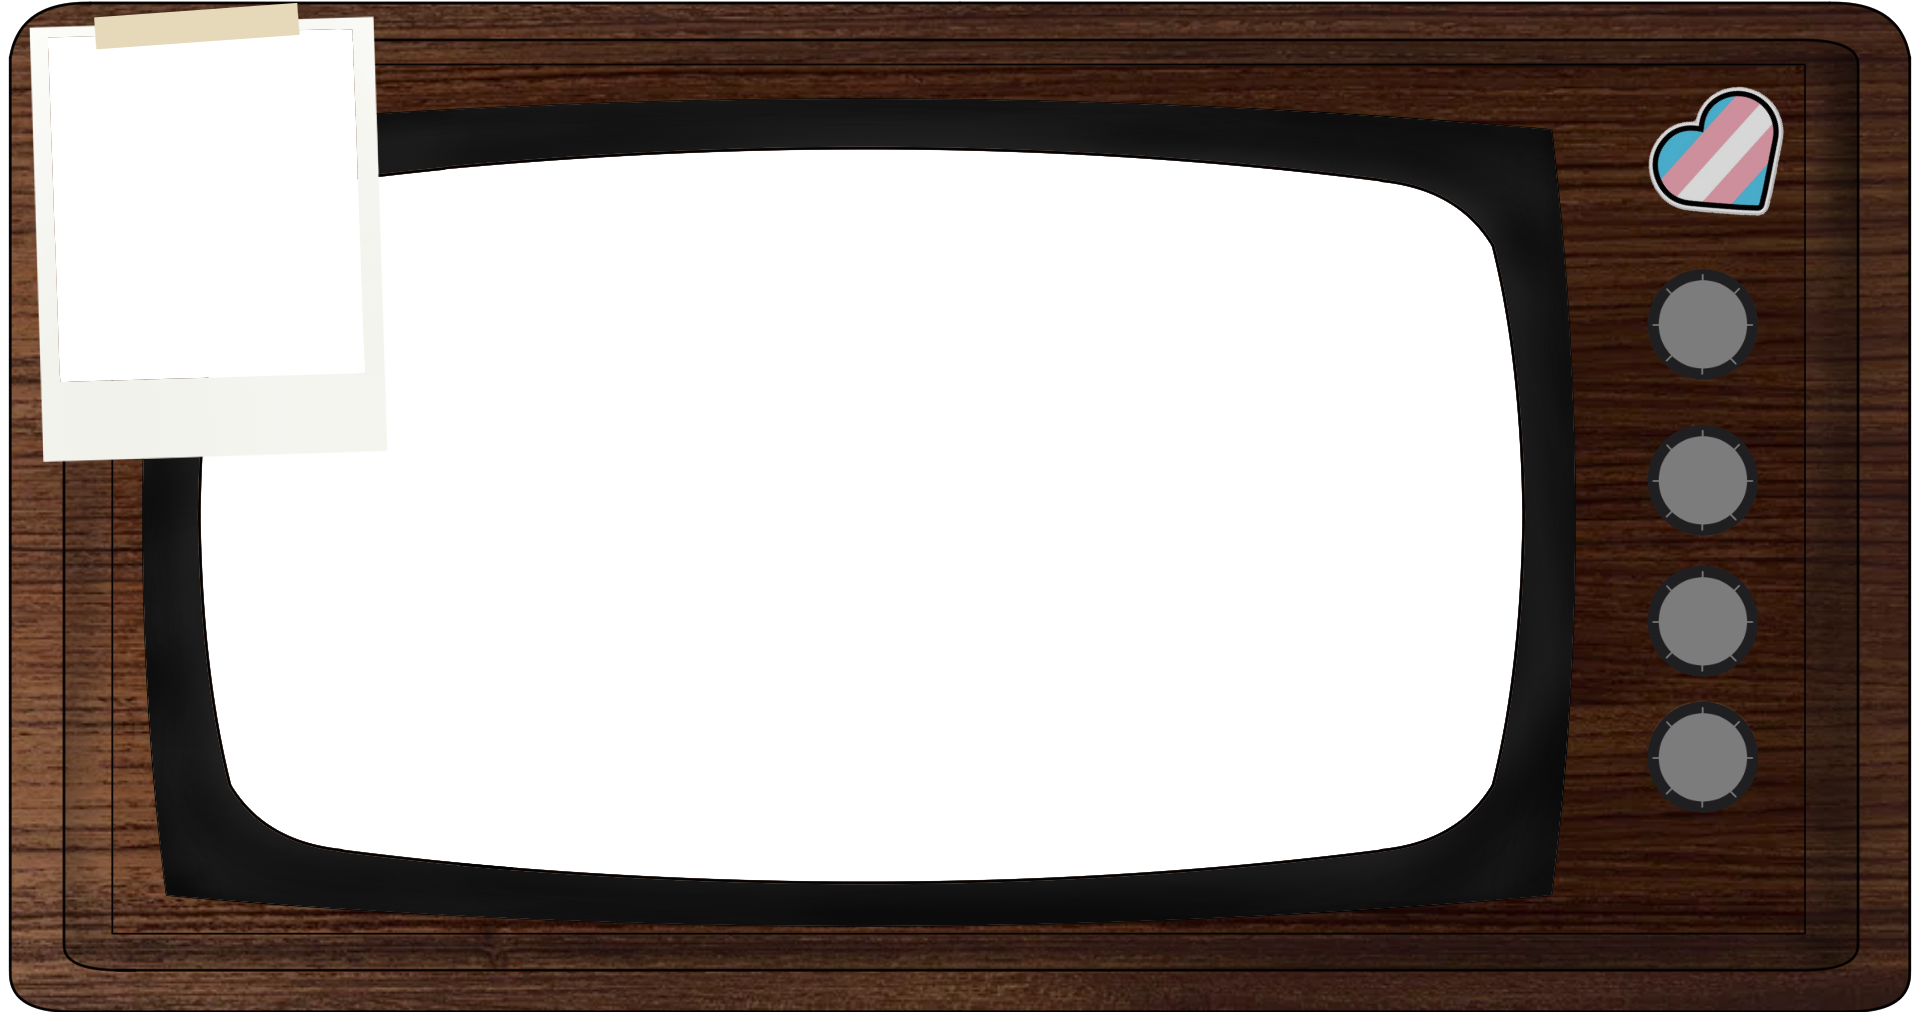
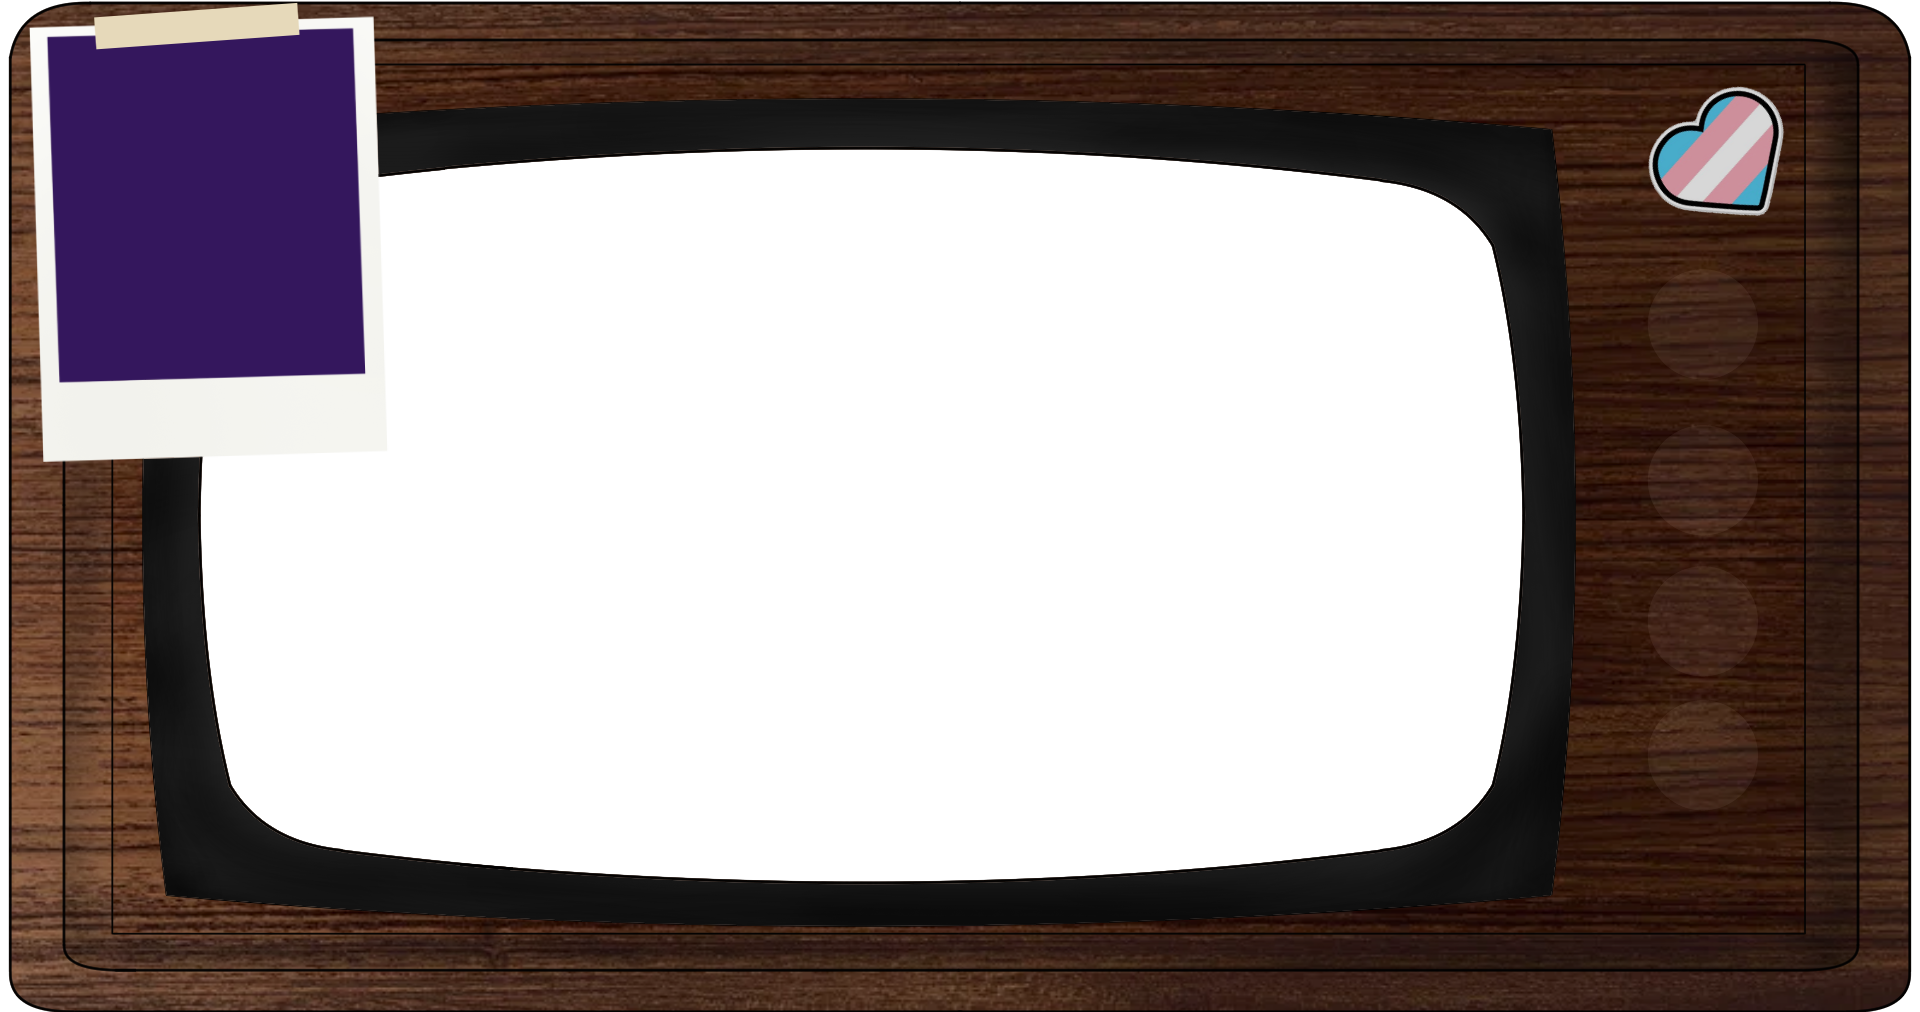
added page buttons and polariod change

Changed region(s): [[0.0, 0.0306, 0.1875, 0.3982], [0.8438, 0.2451, 0.9375, 0.7964]]

diff --git a/app/page.tsx b/app/page.tsx
@@ -1,19 +1,26 @@
 'use client';
 
-import React from 'react';
+import React, { useState } from 'react';
 import Image from "next/image";
 import CRTEffect from 'vault66-crt-effect';
 import "vault66-crt-effect/dist/vault66-crt-effect.css";
 import TVScreen from './components/TVScreen';
+import Page1 from './components/page1';
+import Page2 from './components/page2';
+import Page4 from './components/page4';
+import Page3 from './components/page3';
 
 export default function Home() {
+  const [polaroidImage, setPolaroidImage] = useState('/Polaroid1.png');
+  const [currentPage, setCurrentPage] = useState('tvscreen');
+
   return (
-    <div className="relative w-full h-dvh overflow-hidden flex items-center justify-center p-2">
+    <div className="relative w-full h-screen overflow-hidden flex items-center justify-center p-2">
       <div
         className="relative w-full max-w-15xl max-h-[100vh]"
         style={{ aspectRatio: '1920 / 1012' }}
       >
-        <div className="absolute inset-0 z-0 overflow-hidden">
+        <div className="absolute inset-0 z-0 overflow-hidden ">
           <div className="absolute inset-[10%] min-h-0 min-w-0">
             <CRTEffect 
               enabled={true}
@@ -33,19 +40,118 @@ export default function Home() {
               glitchIntensity={0.4}
               glitchSpeed={9}
             >
-
-              <TVScreen />
+              {currentPage === 'tvscreen' && <TVScreen />}
+              {currentPage === 'page1' && <Page1 />}
+              {currentPage === 'page2' && (
+                <Page2 setPolaroidImage={setPolaroidImage} />
+              )}
+              {currentPage === 'page3' && <Page3 />}
+              {currentPage === 'page4' && <Page4 />}
             </CRTEffect>
           </div>
         </div>
 
+
+
+        <div className="absolute inset-0 z-10 flex items-center justify-center pointer-events-none">
+          <div className="relative w-full h-full">
+            <Image
+              src="/TvSketchAgain.png"
+              alt="TV"
+              fill
+              className="object-contain"
+              priority
+            />
+          </div>
+        </div>
+
         <Image
-          src="/TvSketchAgain.png"
-          alt="Background image yaaa"
+          src={polaroidImage}
+          alt="Polaroid image yaaa"
           fill
-          className="object-contain z-10"
+          className="object-contain z-10 pointer-events-none"
           priority
         />
+
+<div className="absolute inset-0 z-20 pointer-events-none">
+  <div className="relative w-full h-full">
+
+    {/* Button 1 */}
+    <button
+      className="absolute cursor-pointer pointer-events-auto -translate-x-1/2 -translate-y-1/2"
+      style={{ top: '32%', left: '86%', width: '6%', height: '11%' }}
+      onClick={() => {
+        setCurrentPage('page1');
+        setPolaroidImage('/Polaroid1.png');
+      }}
+    >
+      <Image
+        src="/button2.png"
+        alt="button1"
+        fill
+        draggable={false}
+        className="pointer-events-none"
+      />
+    </button>
+
+    {/* Button 2 */}
+    <button
+      className="absolute cursor-pointer pointer-events-auto -translate-x-1/2 -translate-y-1/2"
+      style={{ top: '45%', left: '86%', width: '6%', height: '11%' }}
+      onClick={() => {
+        setCurrentPage('page2');
+        setPolaroidImage('/Polaroid2.png');
+      }}
+    >
+      <Image
+        src="/button2.png"
+        alt="button2"
+        fill
+        draggable={false}
+        className="pointer-events-none"
+      />
+    </button>
+
+    {/* Button 3 */}
+    <button
+      className="absolute cursor-pointer pointer-events-auto -translate-x-1/2 -translate-y-1/2"
+      style={{ top: '58%', left: '86%', width: '6%', height: '11%' }}
+      onClick={() => {
+        setCurrentPage('page3');
+        setPolaroidImage('/Polaroid3.png');
+      }}
+    >
+      <Image
+        src="/button2.png"
+        alt="button3"
+        fill
+        draggable={false}
+        className="pointer-events-none"
+      />
+    </button>
+
+    {/* Button 4 */}
+    <button
+      className="absolute cursor-pointer pointer-events-auto -translate-x-1/2 -translate-y-1/2"
+      style={{ top: '71%', left: '86%', width: '6%', height: '11%' }}
+      onClick={() => {
+        setCurrentPage('page4');
+        setPolaroidImage('/Polaroid4.png');
+      }}
+    >
+      <Image
+        src="/button2.png"
+        alt="button4"
+        fill
+        draggable={false}
+        className="pointer-events-none"
+      />
+    </button>
+
+  </div>
+</div>
+
+
       </div>
     </div>
   );

diff --git a/app/components/page2.tsx b/app/components/page2.tsx
@@ -1,0 +1,40 @@
+'use client';
+
+import { useState } from "react";
+
+export default function Page2({ setPolaroidImage }: { setPolaroidImage: (image: string) => void }) {
+    const [currentProject, setCurrentProject] = useState('Hover over the names to see some of the projects i have done');
+    
+    
+  return (
+    <div className="w-full h-full relative">
+      {/* Title */}
+      <div className="absolute top-[15%] left-[20%]">
+        <p className="opacity-80 text-[2vw] font-['PixelifySans']">What have i done?</p>
+      </div>
+      <div className="absolute top-[20%] left-[20%] right-[17%]">
+        <p className="opacity-80 text-[1.5vw] font-['PixelifySans']">
+            {currentProject}
+        </p>
+      </div>
+
+      {/* Left side text blocks */}
+      <div className="absolute top-[50%] left-[20%] ">
+        <p className="opacity-80 text-[1.5vw] font-['PixelifySans'] mb-4 cursor-pointer pointer-events-auto " 
+              onMouseEnter={() => {
+                setCurrentProject('Mauve-Step, a turn based video game where you dodge the enemies attacks by matching a ryhtem by tapping your charcters, made in Unity, and connected to a react website displaying highscores via a selfmade API. Click to view youtube video demonstration.');
+                setPolaroidImage('/Polaroid1.png');
+         }}> 
+            
+        Mauve-Step </p>
+        <p className="opacity-80 text-[1.5vw] font-['PixelifySans']">paragraf 2</p>
+      </div>
+
+      {/* Right side text blocks */}
+      <div className="absolute top-[50%] right-[20%]">
+        <p className="opacity-80 text-[1.5vw] font-['PixelifySans'] mb-4">paragraf 3 <br></br> ssssssssssss</p>
+        <p className="opacity-80 text-[1.5vw] font-['PixelifySans']">paragraf 4 ssssssssssss</p>
+      </div>
+    </div>
+  );
+}

diff --git a/app/components/page1.tsx b/app/components/page1.tsx
@@ -1,0 +1,24 @@
+'use client';
+
+export default function Page1() {
+  return (
+    <div className="w-full h-full relative">
+      {/* Title */}
+      <div className="absolute top-[15%] left-[20%]">
+        <p className="opacity-80 text-[2vw] font-['PixelifySans']">Title? Who am i?</p>
+      </div>
+
+      {/* Left side text blocks */}
+      <div className="absolute top-[30%] left-[20%]">
+        <p className="opacity-80 text-[1.5vw] font-['PixelifySans'] mb-4">paragraf 1</p>
+        <p className="opacity-80 text-[1.5vw] font-['PixelifySans']">paragraf 2</p>
+      </div>
+
+      {/* Right side text blocks */}
+      <div className="absolute top-[30%] right-[20%]">
+        <p className="opacity-80 text-[1.5vw] font-['PixelifySans'] mb-4">paragraf 3 <br></br> ssssssssssss</p>
+        <p className="opacity-80 text-[1.5vw] font-['PixelifySans']">paragraf 4 ssssssssssss</p>
+      </div>
+    </div>
+  );
+}

diff --git a/app/components/page3.tsx b/app/components/page3.tsx
@@ -1,0 +1,24 @@
+'use client';
+
+export default function Page3() {
+  return (
+    <div className="w-full h-full relative">
+      {/* Title */}
+      <div className="absolute top-[15%] left-[20%]">
+        <p className="opacity-80 text-[2vw] font-['PixelifySans']">What can i do?</p>
+      </div>
+
+      {/* Left side text blocks */}
+      <div className="absolute top-[30%] left-[20%]">
+        <p className="opacity-80 text-[1.5vw] font-['PixelifySans'] mb-4">paragraf 1</p>
+        <p className="opacity-80 text-[1.5vw] font-['PixelifySans']">paragraf 2</p>
+      </div>
+
+      {/* Right side text blocks */}
+      <div className="absolute top-[30%] right-[20%]">
+        <p className="opacity-80 text-[1.5vw] font-['PixelifySans'] mb-4">paragraf 3 <br></br> ssssssssssss</p>
+        <p className="opacity-80 text-[1.5vw] font-['PixelifySans']">paragraf 4 ssssssssssss</p>
+      </div>
+    </div>
+  );
+}

diff --git a/app/components/page4.tsx b/app/components/page4.tsx
@@ -1,0 +1,24 @@
+'use client';
+
+export default function Page4() {
+  return (
+    <div className="w-full h-full relative">
+      {/* Title */}
+      <div className="absolute top-[15%] left-[20%]">
+        <p className="opacity-80 text-[2vw] font-['PixelifySans']">AI?</p>
+      </div>
+
+      {/* Left side text blocks */}
+      <div className="absolute top-[30%] left-[20%]">
+        <p className="opacity-80 text-[1.5vw] font-['PixelifySans'] mb-4">paragraf 1</p>
+        <p className="opacity-80 text-[1.5vw] font-['PixelifySans']">paragraf 2</p>
+      </div>
+
+      {/* Right side text blocks */}
+      <div className="absolute top-[30%] right-[20%]">
+        <p className="opacity-80 text-[1.5vw] font-['PixelifySans'] mb-4">paragraf 3 <br></br> ssssssssssss</p>
+        <p className="opacity-80 text-[1.5vw] font-['PixelifySans']">paragraf 4 ssssssssssss</p>
+      </div>
+    </div>
+  );
+}